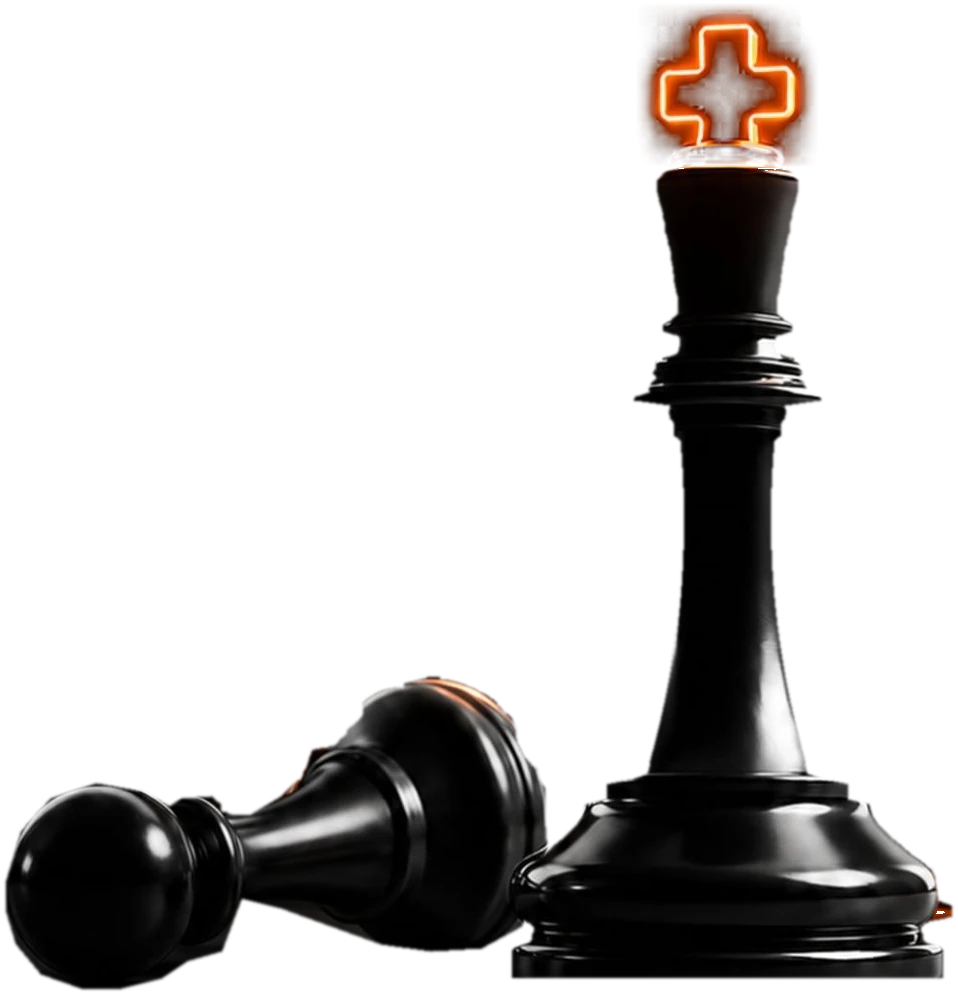
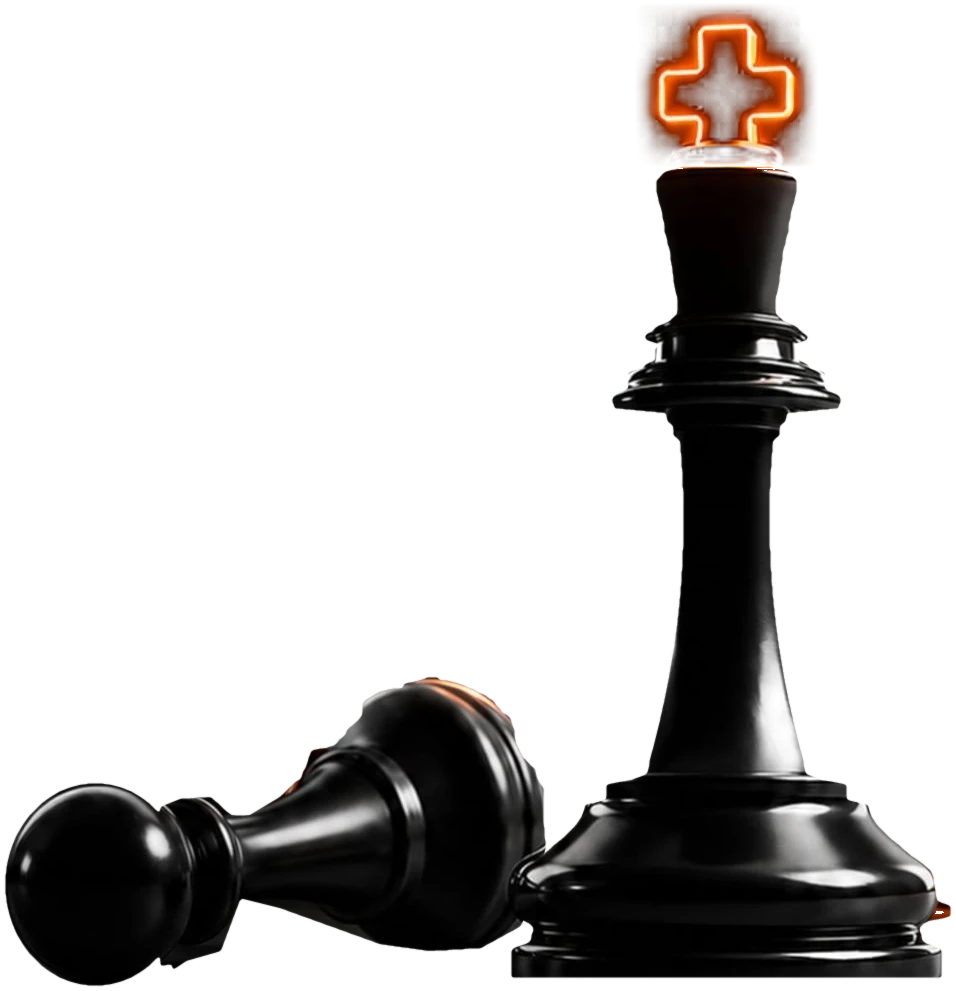
Smooth the chess edges and move the spinning badge under the services strip
- Chess cut-out re-made with anti-aliased edges (supersampled outline), a
  true ellipse for the pawn head and a rounded rim on the king's collar
- Rim glow moved to a wrapper so the image's fade mask no longer clips it
  into straight edges at the image box
- Spinning "Capture · Elevate · Grow" badge now sits on the line under the
  services strip instead of in the contact section; textLength spreads the
  words evenly so they no longer run together

diff --git a/web/app/globals.css b/web/app/globals.css
@@ -131,8 +131,10 @@ html[lang=ru] nav.main a{letter-spacing:.12em}
 /* King + fallen pawn standing in front of the orb (die-cut from the poster). An ember glow breathes behind the king,
    the pieces carry a thin rim of orange light, and on scroll they drift a little slower than the page for depth
    (--py is set in Behaviours.tsx). */
-.chess{position:absolute;z-index:1;right:3vw;bottom:58px;width:min(44vw,720px);aspect-ratio:958/995;translate:0 calc(var(--py,0) * .16px);pointer-events:none}
-.chess img{position:relative;width:100%;height:auto;filter:drop-shadow(0 0 22px #e8450a66) drop-shadow(0 22px 40px #000c);-webkit-mask:linear-gradient(to top,transparent,#000 9%);mask:linear-gradient(to top,transparent,#000 9%)}
+.chess{position:absolute;z-index:1;right:3vw;bottom:58px;width:min(44vw,720px);aspect-ratio:956/991;translate:0 calc(var(--py,0) * .16px);pointer-events:none}
+/* the rim glow sits on a wrapper: a mask on the same element would clip the glow at the image's box (straight edges) */
+.chess .pieces{display:block;position:relative;filter:drop-shadow(0 0 22px #e8450a66) drop-shadow(0 22px 40px #000c)}
+.chess img{display:block;width:100%;height:auto;-webkit-mask:linear-gradient(to top,transparent,#000 9%);mask:linear-gradient(to top,transparent,#000 9%)}
 .chess-glow{position:absolute;left:45%;top:6%;width:62%;height:86%;border-radius:50%;background:radial-gradient(closest-side,#ff6a3d99,#e8450a40 45%,transparent);filter:blur(30px);animation:glow 7s ease-in-out infinite alternate}
 @keyframes glow{from{opacity:.55;scale:.92}to{opacity:1;scale:1.06}}
 .hero h1{margin:34px 0 52px}
@@ -250,12 +252,14 @@ figcaption .serif{font-size:clamp(21px,1.7vw,27px);line-height:1.2;background:li
 .terms li h3{font-size:27px;margin-bottom:6px}
 
 /* ── Contact ── */
-.contact{padding:240px 0 140px;position:relative;overflow:hidden;background:var(--ink)}
+.contact{padding:180px 0 140px;position:relative;overflow:hidden;background:var(--ink)}
 .contact-grid{display:grid;grid-template-columns:7fr 5fr;gap:6vw;align-items:end}
 .contact h2{margin:30px 0 56px}
-.badge{position:absolute;right:5vw;top:56px;width:150px;height:150px;color:var(--stone)}
+/* spinning seal straddling the line under the services strip; its dark disc hides the line behind it */
+.chapters{position:relative}
+.badge{position:absolute;z-index:3;right:6vw;top:-30px;width:152px;height:152px;border-radius:50%;background:var(--void);color:var(--stone)}
 .badge svg{width:100%;height:100%;animation:spin 40s linear infinite}
-.badge text{font:500 10.5px var(--sans);font-stretch:125%;letter-spacing:.33em;fill:currentColor}
+.badge text{font:500 10.5px var(--sans);font-stretch:125%;fill:currentColor}   /* spacing comes from textLength, so the words never collide */
 .badge .mk{position:absolute;inset:0;margin:auto;width:46px}
 .people a{display:flex;justify-content:space-between;align-items:baseline;gap:20px;padding:22px 0;border-top:1px solid var(--line);transition:color .25s}
 .people a:hover{color:var(--flame)}
@@ -341,7 +345,7 @@ html:is([lang=th],[lang=zh]) .chat-fab{letter-spacing:.06em;font-size:13px}
   .ads{grid-template-columns:1fr;gap:16px}
   .terms li{grid-template-columns:90px 1fr}
   .terms li b{font-size:40px}
-  .badge{display:none}
+  .badge{width:104px;height:104px;top:-22px;right:5vw}
   .p-side{grid-template-columns:110px 1fr}
 }
 @media (prefers-reduced-motion:reduce){

diff --git a/web/app/components/Services.tsx b/web/app/components/Services.tsx
@@ -39,6 +39,14 @@ const SHOTS = [
 export function Services({ t }: { t: T }) {
   return (
     <section className="chapters" id="services">
+      {/* spinning seal under the services strip; textLength spreads the words evenly around the circle (2πr ≈ 490) */}
+      <div className="badge" aria-hidden="true">
+        <svg viewBox="0 0 200 200">
+          <defs><path id="circ" d="M100 100m-78 0a78 78 0 1 1 156 0a78 78 0 1 1-156 0" /></defs>
+          <text><textPath href="#circ" textLength={488} lengthAdjust="spacing">CAPTURE · ELEVATE · GROW · </textPath></text>
+        </svg>
+        <span className="mk" />
+      </div>
       <div className="wrap ch-grid">
         <div className="ch-sticky">
           <h2 className="label">{t('What we do')}</h2>

diff --git a/web/app/components/Contact.tsx b/web/app/components/Contact.tsx
@@ -11,13 +11,6 @@ export function Contact({ lang, t }: { lang: Locale; t: T }) {
   const label = first && pick(CHAT_UI.cta, lang).replace('{x}', channelName(first, lang));
   return (
     <section className="contact" id="contact">
-      <div className="badge" aria-hidden="true">
-        <svg viewBox="0 0 200 200">
-          <defs><path id="circ" d="M100 100m-78 0a78 78 0 1 1 156 0a78 78 0 1 1-156 0" /></defs>
-          <text><textPath href="#circ">CAPTURE · ELEVATE · GROW · CAPTURE · ELEVATE · GROW · </textPath></text>
-        </svg>
-        <span className="mk" />
-      </div>
       <div className="wrap contact-grid">
         <div>
           <p className="label">{t('Message us')}</p>

diff --git a/web/app/components/Hero.tsx b/web/app/components/Hero.tsx
@@ -13,7 +13,7 @@ export function Hero({ t }: { t: T }) {
       {/* king and fallen pawn, die-cut from the "We create strategy" poster; a glow breathes behind them */}
       <div className="chess" aria-hidden="true">
         <span className="chess-glow" />
-        <Image src="/assets/chess.webp" alt="" width={958} height={995} sizes="(max-width: 900px) 64vw, 44vw" loading="eager" />
+        <span className="pieces"><Image src="/assets/chess.webp" alt="" width={956} height={991} sizes="(max-width: 900px) 58vw, 44vw" loading="eager" /></span>
       </div>
       <div className="wrap hero-in">
         <p className="label">{t('Digital agency · Rawai, Phuket')}</p>
